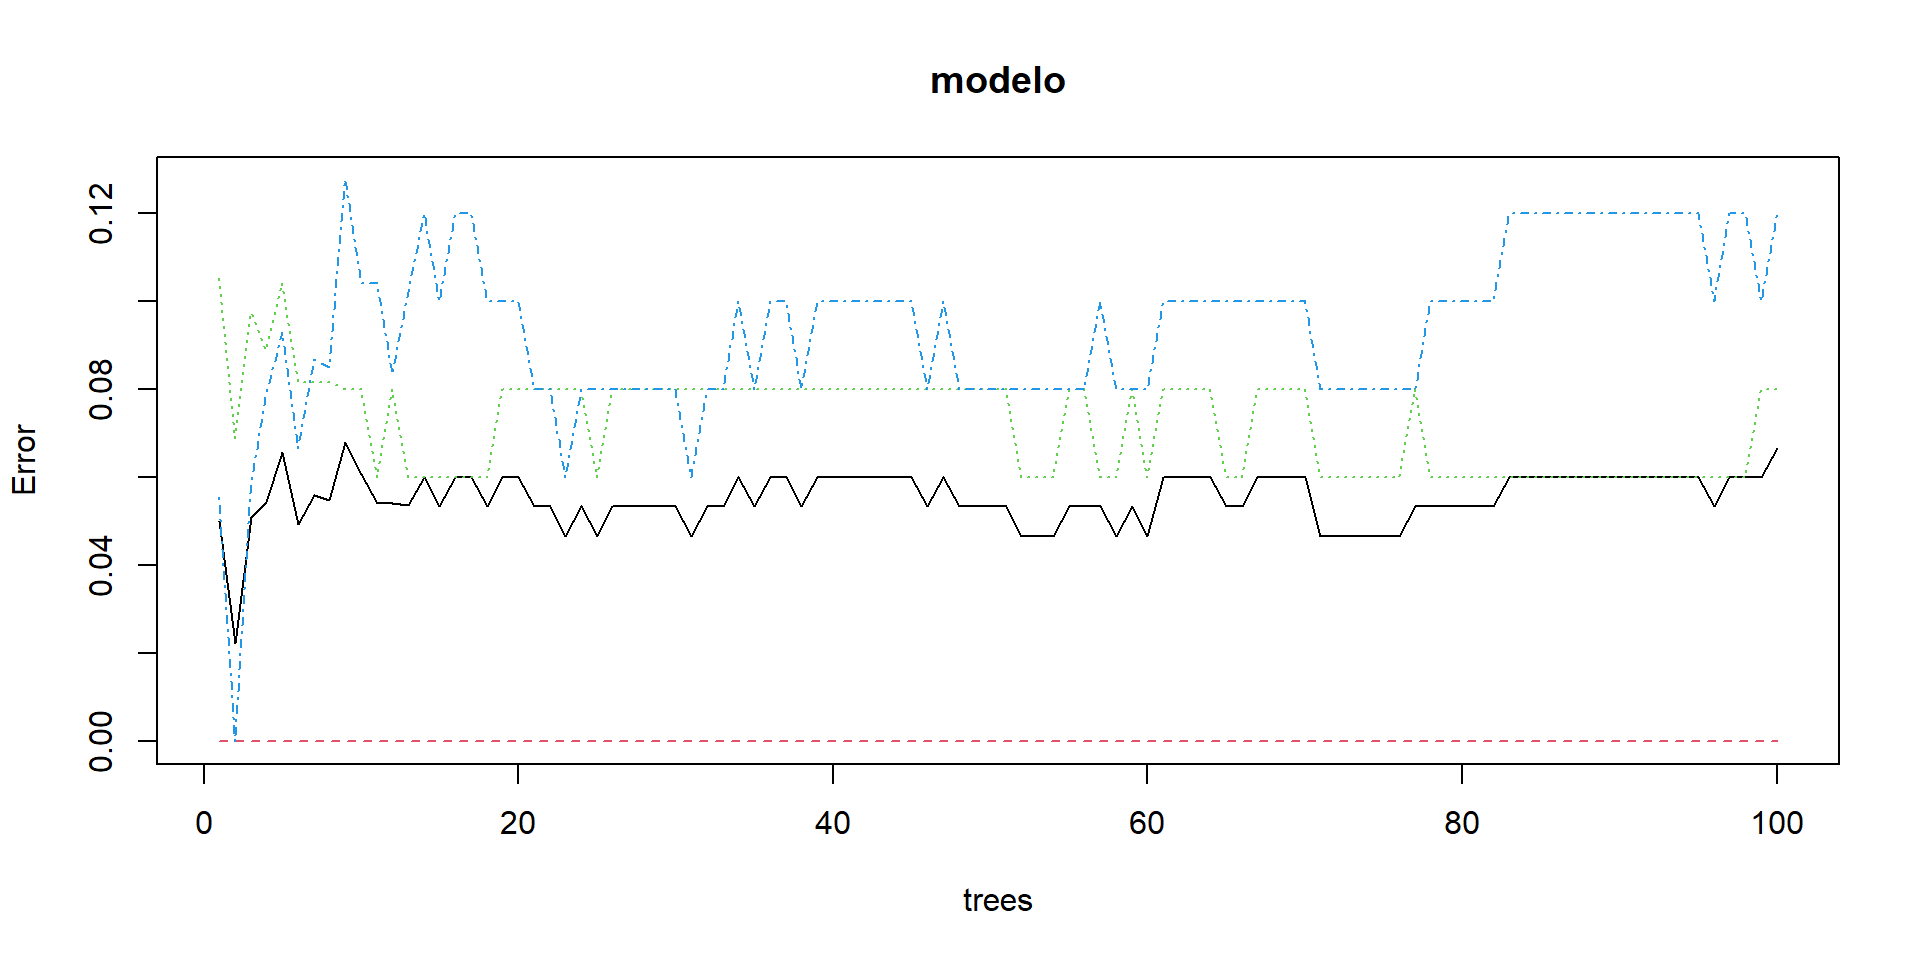
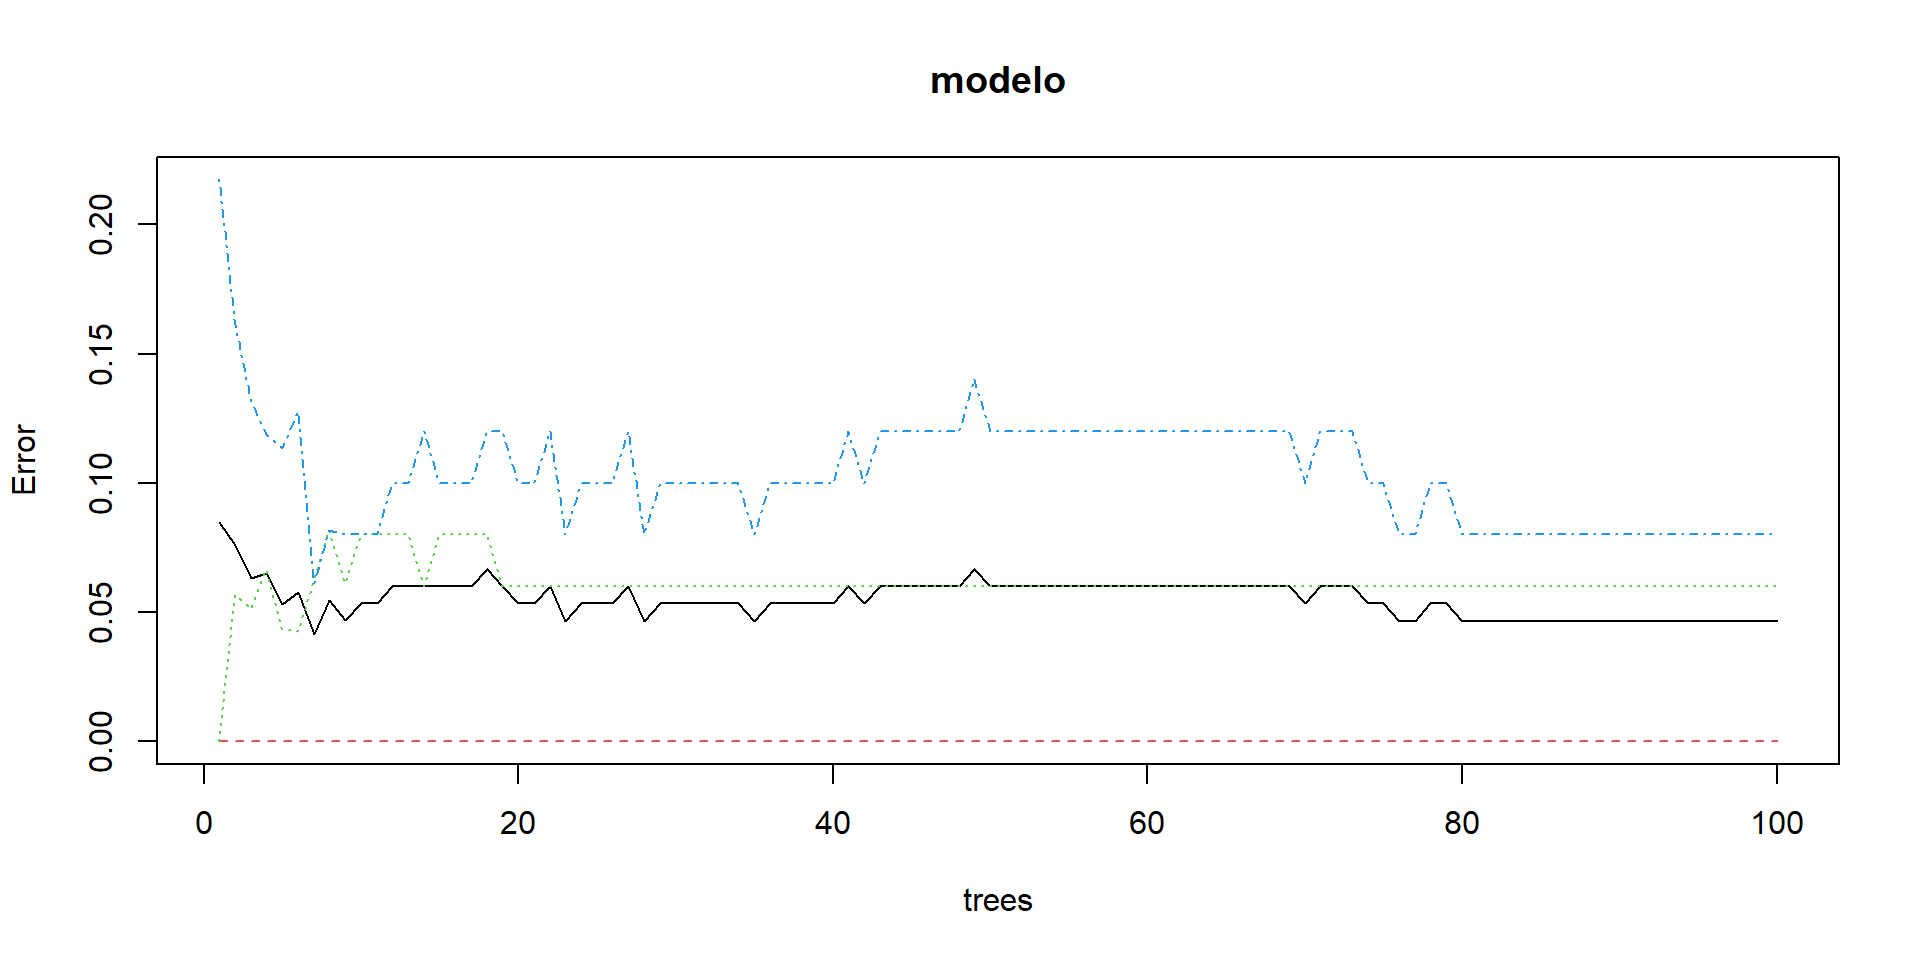
Peticiones chitus taller modelizacion

diff --git a/Taller_Modelizacion/Taller_modelizacion.html b/Taller_Modelizacion/Taller_modelizacion.html
@@ -599,13 +599,13 @@ flowchart TD
 <h2>Fases</h2>
 <p>La fase más artesanal dentro del machine learning. Ayuda a preparar los datos para ser usados con mayor eficiencia, mejorando la calidad del aprendizaje.</p>
 <ol type="1">
-<li>Limpieza de datos (Data Cleaning)</li>
-<li>Transformación de datos (Data Transformation)</li>
-<li>Codificación de datos categóricos (Categorical Data Encoding)</li>
-<li>Reducción de dimensionalidad (Dimensionality Reduction)</li>
-<li>Selección de características (Feature Selection)</li>
-<li>Creación de características (Feature Engineering)</li>
-<li>Muestreo equilibrador (Sampling)</li>
+<li><em>Limpieza de datos</em> (Data Cleaning)</li>
+<li><em>Transformación de datos</em> (Data Transformation)</li>
+<li><em>Codificación de datos categóricos</em> (Categorical Data Encoding)</li>
+<li><em>Reducción de dimensionalidad</em> (Dimensionality Reduction)</li>
+<li><em>Selección de características </em>(Feature Selection)</li>
+<li><em>Creación de características </em>(Feature Engineering)</li>
+<li><em>Muestreo equilibrador</em> (Sampling)</li>
 </ol>
 </section>
 <section id="limpieza-de-datos-data-cleaning" class="slide level2">
@@ -620,15 +620,15 @@ flowchart TD
 <section id="limpieza-de-datos-data-cleaning-imputación" class="slide level2">
 <h2>Limpieza de datos (Data Cleaning) (Imputación)</h2>
 <ul>
-<li>Missing Completely at Random (MCAR): Los datos se consideran MCAR cuando la probabilidad de que un dato esté perdido es completamente independiente de cualquier variable.
+<li><em>Missing Completely at Random (MCAR)</em>: Los datos se consideran MCAR cuando la probabilidad de que un dato esté perdido es completamente independiente de cualquier variable.
 <ul>
 <li>(ej: datos perdidos por errores técnicos)</li>
 </ul></li>
-<li>Missing at Random (MAR): Los datos se consideran MAR cuando la probabilidad de que un dato esté perdido depende de otras variables observadas en el dataset, pero no del valor de la variable en sí misma que falta. <strong>Los datos faltantes pueden ser predichos por otras variables observadas.</strong>
+<li><em>Missing at Random (MAR)</em>: Los datos se consideran MAR cuando la probabilidad de que un dato esté perdido depende de otras variables observadas en el dataset, pero no del valor de la variable en sí misma que falta. <strong>Los datos faltantes pueden ser predichos por otras variables observadas.</strong>
 <ul>
 <li>(ej: las personas con educación más baja son menos propensas a declarar su ingreso))</li>
 </ul></li>
-<li>Missing Not at Random (MNAR): Los datos se consideran MNAR cuando la probabilidad de que un dato esté perdido depende del valor de la variable que falta. Aquí, los datos faltantes no son aleatorios y están relacionados con las propias observaciones faltantes.
+<li><em>Missing Not at Random (MNAR)</em>: Los datos se consideran MNAR cuando la probabilidad de que un dato esté perdido depende del valor de la variable que falta. Aquí, los datos faltantes no son aleatorios y están relacionados con las propias observaciones faltantes.
 <ul>
 <li>(ej: las personas con niveles más altos de depresión pueden ser menos propensas a responder preguntas sobre su estado mental)</li>
 </ul></li>
@@ -638,14 +638,20 @@ flowchart TD
 <section id="transformación-de-datos-data-transformation" class="slide level2">
 <h2>Transformación de datos (Data Transformation)</h2>
 <ul>
-<li><p><strong>Normalización</strong>: Escalado de características a un rango específico (por ejemplo, entre 0 y 1). Comúnmente utilizada para algoritmos como redes neuronales.</p></li>
-<li><p><strong>Estandarización</strong>: Escalado de características para que tengan media 0 y desviación estándar 1. Usada frecuentemente en algoritmos como SVM y regresión logística.</p></li>
-<li><p><strong>Transformaciones</strong> logarítmicas o de Box-Cox: Aplicación de funciones matemáticas para transformar datos sesgados a una distribución más normal.</p></li>
+<li><p><em>Normalización</em>: Escalado de características a un rango específico (por ejemplo, entre 0 y 1). Comúnmente utilizada para algoritmos como redes neuronales.</p></li>
+<li><p><em>Estandarización</em>: Escalado de características para que tengan media 0 y desviación estándar 1. Usada frecuentemente en algoritmos como SVM y regresión logística.</p></li>
+<li><p><em>Transformaciones</em> logarítmicas o de Box-Cox: Aplicación de funciones matemáticas para transformar datos sesgados a una distribución más normal.</p></li>
 </ul>
 </section>
 <section id="transformación-de-datos-logaritmos" class="slide level2">
 <h2>Transformación de datos: logaritmos</h2>
-<p>Al usar la escala logarítmica, los coeficientes de un modelo de regresión se interpretan en términos de cambios porcentuales.</p>
+<p>Al usar la escala logarítmica, los coeficientes de un modelo de regresión se interpretan en términos de cambios porcentuales. <strong>El modelo se vuelve interpretable desde el punto de vista relativo y no absoluto</strong>. Esto es vital para tratar temas como el salario donde los incremnetos relativos son mucho más válidos que los absolutos.</p>
+<ul>
+<li>No es lo mismo incremenetar el salario 100€ a alguien que cobra 1.000€ al mes que a alguien con 10.000€ al mes.</li>
+</ul>
+</section>
+<section id="transformación-de-datos-logaritmos-ejemplo" class="slide level2">
+<h2>Transformación de datos: logaritmos (ejemplo)</h2>
 <p>Asumamos 2 modelos:</p>
 <p><span class="math display">\[
 Salario=2000+500(AñosExperiencia) + 1000(AñosEducación)
@@ -654,8 +660,8 @@ Salario=2000+500(AñosExperiencia) + 1000(AñosEducación)
 log(Salario)=2.5+0.04(AñosExperiencia)+0.08(AñosEducación)
 \]</span> Son el mismo modelo, la única diferencia es la escala de la variable respuesta <em>salario</em></p>
 </section>
-<section id="transformación-de-datos-logaritmos-1" class="slide level2">
-<h2>Transformación de datos: logaritmos</h2>
+<section id="transformación-de-datos-logaritmos-ejemplo-1" class="slide level2">
+<h2>Transformación de datos: logaritmos (ejemplo</h2>
 <p><span class="math display">\[
 Salario=2000+500(AñosExperiencia) + 1000(AñosEducación)
 \]</span> Los coeficientes indicarían incrementos <strong>absolutos</strong> en el salario:</p>
@@ -664,8 +670,8 @@ Salario=2000+500(AñosExperiencia) + 1000(AñosEducación)
 <li>Coeficiente de Años de Educación <span class="math inline">\(\beta_{AñosEducación} = 1000\)</span>: Cada año de experiencia aumentaría el salario en 1000.</li>
 </ul>
 </section>
-<section id="transformación-de-datos-logaritmos-2" class="slide level2">
-<h2>Transformación de datos: logaritmos</h2>
+<section id="transformación-de-datos-logaritmos-ejemplo-2" class="slide level2">
+<h2>Transformación de datos: logaritmos (ejemplo</h2>
 <p><span class="math display">\[
 log(Salario)=2.5+0.04(AñosExperiencia)+0.08(AñosEducación)
 \]</span></p>
@@ -681,6 +687,52 @@ log(Salario)=2.5+0.04(AñosExperiencia)+0.08(AñosEducación)
 <li>Cada año adicional de Educacion, <strong>el logaritmo del salario</strong> aumenta en 0.08 unidades.</li>
 <li>En términos porcentuales, esto se interpreta <span class="math inline">\((e^{0.08}−1)×100 ≈ (1.0408−1)×100=0.083×100 = 8.3\%\)</span></li>
 </ul></li>
+</ul>
+</section>
+<section id="codificación-de-datos-categóricos-categorical-data-encoding" class="slide level2">
+<h2>Codificación de datos categóricos (Categorical Data Encoding):</h2>
+<ul>
+<li><em>Dummy Encoding</em>: Transformación de variables categóricas en variables binarias, dejando una categoría implícita en la referencia.</li>
+</ul>
+<p><img data-src="Imagenes/dummy_encoding.png"></p>
+<ul>
+<li><em>One-Hot Encoding</em>: Transformación de variables categóricas en variables binarias, sin categoría de referencia.</li>
+</ul>
+<p><img data-src="Imagenes/onehot_encoding.png"></p>
+<ul>
+<li><em>Label Encoding</em>: Asignación de un número entero único a cada categoría.</li>
+<li><em>Target Encoding</em>: Sustitución de categorías por la un estadístico del target, como al media o los cuartiles.</li>
+</ul>
+</section>
+<section id="selección-de-características-feature-selection" class="slide level2">
+<h2>Selección de características (Feature Selection):</h2>
+<ul>
+<li><em>Métodos de filtro</em>: Selección de características basadas en estadísticas univariadas (por ejemplo, chi-cuadrado, ANOVA).</li>
+<li><em>Métodos de envoltura (Wrapper)</em>: Selección de características usando algoritmos de búsqueda (por ejemplo, secuencial hacia adelante o hacia atrás).</li>
+<li><em>Métodos basados en importancia de modelos</em>: Uso de algoritmos de aprendizaje (como árboles de decisión) para evaluar la importancia de cada característica.</li>
+</ul>
+</section>
+<section id="reducción-de-dimensionalidad-dimensionality-reduction" class="slide level2">
+<h2>Reducción de dimensionalidad (Dimensionality Reduction):</h2>
+<ul>
+<li><p><em>Principal Component Analysis (PCA)</em>: Reducción del número de variables manteniendo la mayor cantidad de variabilidad posible.</p></li>
+<li><p><em>Linear Discriminant Analysis (LDA)</em>: Similar al PCA pero también considera la clase del target, útil en problemas de clasificación.</p></li>
+</ul>
+</section>
+<section id="creación-de-características-feature-engineering" class="slide level2">
+<h2>Creación de características (Feature Engineering):</h2>
+<ul>
+<li><em>Combinación de características</em>: Creación de nuevas características a partir de las existentes (por ejemplo, suma, producto).</li>
+<li><em>Extracción de características temporales</em>: Creación de nuevas características basadas en datos de series temporales, como día de la semana, mes, etc.</li>
+<li><em>Transformaciones polinómicas</em>: Generación de nuevas características combinando las existentes de manera no lineal.</li>
+</ul>
+</section>
+<section id="muestreo-sampling" class="slide level2">
+<h2>Muestreo (Sampling):</h2>
+<p><strong>Objetivo</strong>: balancear el dataset.</p>
+<ul>
+<li><em>Submuestreo (Undersampling)</em>: Reducción de la cantidad de muestras en la clase mayoritaria</li>
+<li><em>Sobremuestreo (Oversampling)</em>: Incremento de la cantidad de muestras en la clase minoritaria, utilizando técnicas como SMOTE (Synthetic Minority Over-sampling Technique).</li>
 </ul>
 </section></section>
 <section>
@@ -747,9 +799,9 @@ log(Salario)=2.5+0.04(AñosExperiencia)+0.08(AñosEducación)
 <h2>Respecto a la utilidad</h2>
 <table>
 <colgroup>
-<col style="width: 26%">
-<col style="width: 37%">
-<col style="width: 36%">
+<col style="width: 21%">
+<col style="width: 28%">
+<col style="width: 49%">
 </colgroup>
 <thead>
 <tr class="header">
@@ -1051,10 +1103,10 @@ F-statistic: 69.21 on 2 and 29 DF,  p-value: 9.109e-12</code></pre>
 <div class="cell">
 <div class="cell-output cell-output-stdout">
 <pre><code>             MeanDecreaseGini
-Sepal.Length         7.807488
-Sepal.Width          2.216256
-Petal.Length        44.532119
-Petal.Width         44.760604</code></pre>
+Sepal.Length        10.162955
+Sepal.Width          2.896324
+Petal.Length        42.239383
+Petal.Width         44.044671</code></pre>
 </div>
 
 </div>
